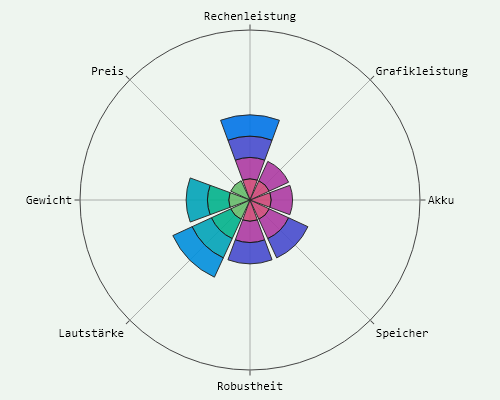
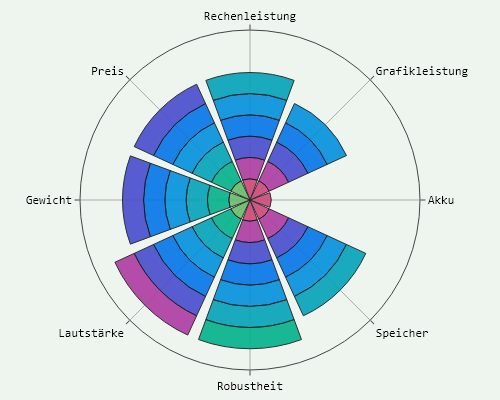
more price fixes

Changed region(s): [[0.21, 0.18, 0.75, 0.9]]

diff --git a/FinalPartsConfigurationController.py b/FinalPartsConfigurationController.py
@@ -27,18 +27,18 @@ class FinalPartsConfigurationController:
                 elif self.indexValues[i]>8: self.indexValues[i] = 8
 
                 if i == 1:
-                    # Anpassen des Preises um 20 bzw 50% nach oben wenn Business oder Outdoor/Spezial ausgewählt wird
+                    # Anpassen des Preises um 10 bzw 30% nach oben wenn Business oder Outdoor/Spezial ausgewählt wird
                     if AvailableOptionsModel.getFinalConfigState()[5] == 'Business-Level':
-                        finalConfigurationOnView.append(self.notebookModel.dictionaryCollection[i][self.indexValues[i]]*1.2)
+                        finalConfigurationOnView.append(round(self.notebookModel.dictionaryCollection[i][self.indexValues[i]]*1.1, 0))
                     elif AvailableOptionsModel.getFinalConfigState()[5] == 'Outdoor/Special':
-                        finalConfigurationOnView.append(self.notebookModel.dictionaryCollection[i][self.indexValues[i]]*1.5)
+                        finalConfigurationOnView.append(self.notebookModel.dictionaryCollection[i][self.indexValues[i]]*1.3)
                     else: finalConfigurationOnView.append(self.notebookModel.dictionaryCollection[i][self.indexValues[i]])
 
                 elif i == 7:
                     # Anpassen der Grafikkarte im hohen Qualitätssegment je nach angegebenen Nutzen (normale bzw. Workstationkarte)
                     # und bei einer Konfiguration mit hoher Grafikleistung und geringer Lautstärke Anpassen des Lüfters
                     if AvailableOptionsModel.getFinalConfigState()[0] == 'Professional':
-                        finalConfigurationOnView.append(self.notebookModel.dictionaryCollection[7][self.indexValues[i]])
+                        finalConfigurationOnView.append(self.notebookModel.dictionaryCollection[i][self.indexValues[i]])
                     else: finalConfigurationOnView.append(self.notebookModel.dictionaryCollection[i][self.indexValues[i]]) 
 
                 # Anpassen aller restlichen Werte bis auf den Ram (außerhalb der Listenlänge)
@@ -61,22 +61,58 @@ class FinalPartsConfigurationController:
         # wenn Outdoor/Special gewählt wurde und der Akkuindexwert sehr niedrig ist, den Indexwert der Akkuleistung nach oben anpassen
         if AvailableOptionsModel.getFinalConfigState()[5]=='Outdoor/Special' and self.indexValues[6] < 3: self.indexValues[6]+=2
 
-        self.indexValues[1] = self.adjustPrice()
+        self.indexValues[1] = self.adjustPriceTwo()
 
     
     def adjustPrice(self):
         price = 0
         for i in range(8):
             if i not in (1,2,3):
-                price += self.indexValues[i]-4
+                price += self.indexValues[i]
                 print('{}{}'.format('price raised to', price))
             elif i != 1: 
-                price += 2-self.indexValues[i]
+                price -= self.indexValues[i]
                 print('{}{}'.format('price reduced to', price))
+        if price != 0: price = round(price/5, 0)
+        else: price = 0
+
+        # abfangen, dass das Ergebnis plus Preis nicht kleiner als 1 ist
+        print('{}{}'.format('at index:', self.indexValues[1]))
+
+        if price + self.indexValues[1] < 1: return 1
+        else: return price + self.indexValues[1]  
 
 
-        price = round(price/8, 0)        
-        return price + self.indexValues[1]    
+    def adjustPriceTwo(self):
+        priceOption = AvailableOptionsModel.getFinalConfigState()[1]
+        priceUp = 0
+        priceDown = 0
+        finalAdjustmentCalc = 0
+        for i in range(8):
+            if i not in (1,2,3):
+                priceUp += self.indexValues[i]
+                print('{}{}'.format('price raised to', priceUp))
+            elif i != 1: 
+                priceDown += self.indexValues[i]
+                print('{}{}'.format('price reduced to', priceDown))
+        priceUp = round(priceUp/5, 0)
+        priceDown = round(priceDown/3, 0)
+
+        print('{}{}'.format('PriceChange:', priceUp-priceDown))
+
+        finalAdjustmentCalc = priceUp-priceDown
+        if priceOption == 'niedrig': finalAdjustmentCalc+=1
+        elif priceOption == 'mittel': finalAdjustmentCalc-=1
+        elif priceOption == 'hoch': finalAdjustmentCalc-=2
+
+        print('{}{}'.format('final PriceChange:', finalAdjustmentCalc))
+        print('{}{}'.format('actual Price:', self.indexValues[1]))
+
+        #Preis irgendwie vergleichen/Faktor? Also Ergebnis müsste eigentlich dem aktuellen Preis entsprechen?
+
+
+        if finalAdjustmentCalc+self.indexValues[1]<1: return 1
+        else: return finalAdjustmentCalc+self.indexValues[1]
     
     # Liste Reihenfolge ['Rechenleistung', 'Preis', 'Gewicht', 'Lautstärke', 'Robustheit', 'Speicher', 'Akku', 'Grafikleistung']    
 

diff --git a/ConfigurationController.py b/ConfigurationController.py
@@ -19,7 +19,7 @@ class ConfigurationController(object):
 #               |   Leist.  |   Preis   |  Groesse  |   Akku    |  Lauts.   |  Robusth |
 indexChangesTable=[
                 [-1,  1,  3, -1,  1,  2, -1 , 0,  0,  0,  0,  0,  0,  0, -1,  0,  0,  0],   # CPU
-                [-1,  1,  2, -1,  1,  3,  1 , 0,  1, -1,  0,  1, -1,  0,  1, -1,  1,  2],   # Preis
+                [-1,  1,  2, -1,  1,  2,  1 , 0,  1, -1,  0,  1, -1,  0,  1, -1,  1,  2],   # Preis
                 [ 0,  1,  0,  0,  0,  0, -2 , 0,  2,  0,  1,  2,  0,  0,  0,  0,  0,  1],   # Gewicht
                 [ 0,  1,  2,  1,  0, -1,  1 , 0,  0,  0,  0,  0,  1, -1, -3,  0, -1,  1],   # Geräusch
                 [ 0,  1,  1, -1,  0,  1,  0 , 0,  0,  0,  0,  0,  0,  0,  0, -1,  1,  3],   # Robustheit
